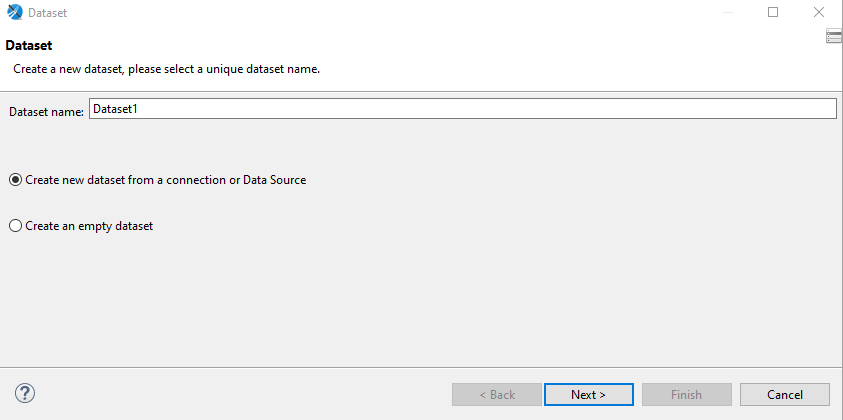
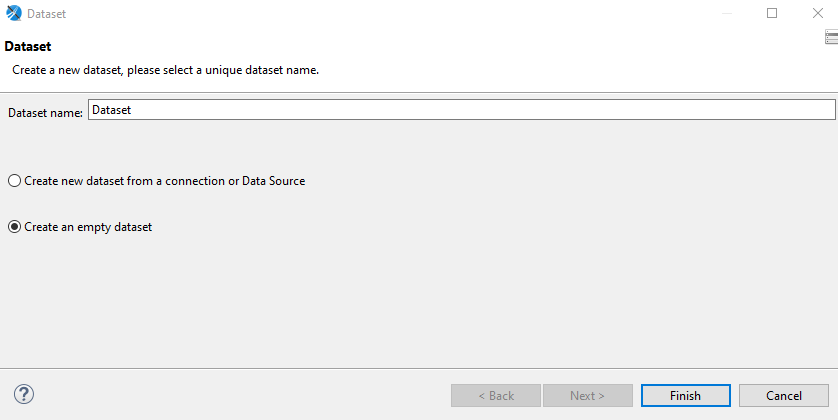
report: update Dataset

diff --git a/docs/guide/be-report.md b/docs/guide/be-report.md
@@ -10,7 +10,7 @@ Use Jaspersoft to create report
 - Palette: list of design type
 - Composite Elements: list of Composite Element pre-designed
 - Tab Design: layout of report
-- Tab Source: source của report
+- Tab Source: source of report
 - Tab Preview: layout report when executed
 - Structure report
   - Title: display in the first report and only display on the first page
@@ -22,7 +22,7 @@ Use Jaspersoft to create report
   - Last Page Footer: display at Page Footer of last page
   - Summary: display at end report
 
-## Some type design report
+## Some type design
 
 ### Label
 
@@ -124,6 +124,7 @@ Use <img src="@assets/images/report_text_field.png"/> when change data
 - Palette - Click <img src="@assets/images/report_barcode.png"/> - Choose position in report
 <img src="@assets/images/report_barcode_create_0.png"/>
 - Choose the type of Barbecue types and click **Finish**
+- Input data of Barcode at **Code Expression** of tab **Barcode**
 
 ## Parameter
 
@@ -145,9 +146,11 @@ Use <img src="@assets/images/report_text_field.png"/> when change data
 - Alway use to table, list
 - Step create to Dataset:
   - Outline - Right click main report  
+  <img src="@assets/images/report_dataset_0.png"/>
   - You will use data param, so select **Create an empty dataset**
   - Input dataset name and click **Finish**
-  <img src="@assets/images/report_dataset.png"/>
+  <img src="@assets/images/report_dataset_1.png"/>
+  <img src="@assets/images/report_dataset_2.png"/>
 
 ## Compile report
 
@@ -155,3 +158,5 @@ Use <img src="@assets/images/report_text_field.png"/> when change data
 <img src="@assets/images/report_compile_0.png"/>
 - File *.jasper* is generated  
 <img src="@assets/images/report_compile_1.png"/>
+
+
